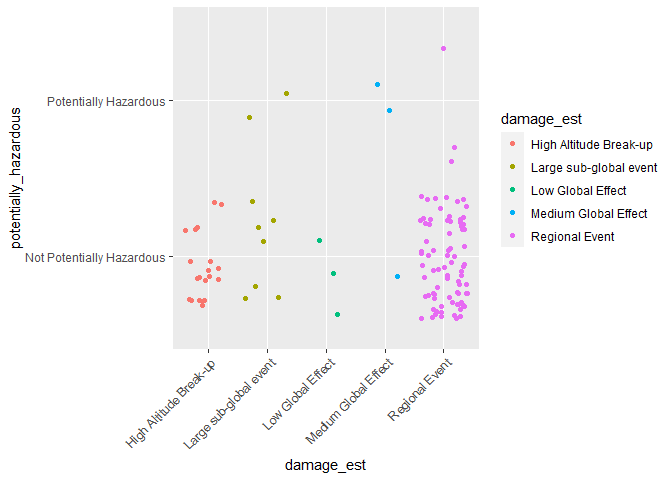
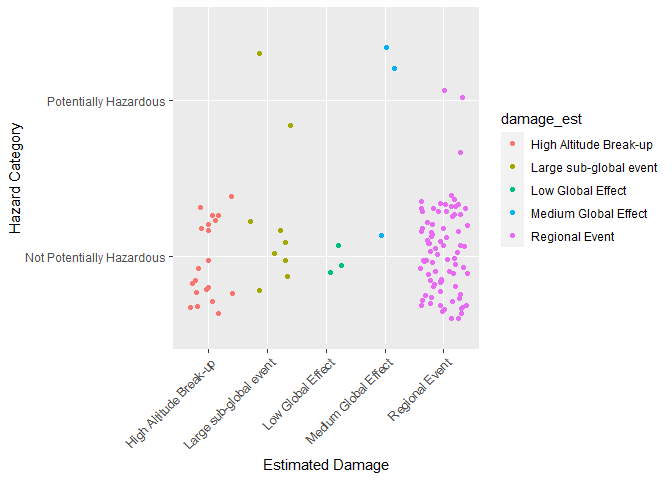
some additional clean up

diff --git a/README.md b/README.md
@@ -185,7 +185,7 @@ the estimations are.
 asteroiddata2 <- as_tibble(asteroiddata2)%>% mutate(diameter_range = asteroiddata2$est_diameter_meter_max - asteroiddata2$est_diameter_meter_min)
 ```
 
-## 3.6 The final tibble!
+## 3.6 The formatted tibble!
 
 And here we are, after all the data wrangling we end up with a useful
 tibble to base our analysis from and work with!
@@ -402,7 +402,7 @@ BPH <- ggplot(data = asteroiddata3, aes(x = potentially_hazardous, y = est_diame
 BPH
 ```
 
-![](README_files/figure-gfm/unnamed-chunk-10-1.png)<!-- -->
+![](README_files/figure-gfm/unnamed-chunk-27-1.png)<!-- -->
 
 ## 8.2 Boxplot size of asteroids grouped by `Damage Potential`
 
@@ -414,9 +414,9 @@ BPH <- ggplot(data = asteroiddata3, aes(x = damage_est, y = est_diameter_meter_m
 BPH
 ```
 
-![](README_files/figure-gfm/unnamed-chunk-11-1.png)<!-- -->
+![](README_files/figure-gfm/unnamed-chunk-28-1.png)<!-- -->
 
-## 8.3 Bar chart showing counts of `Damage Potetial` and `Hazard Category`
+## 8.3 Bar chart showing counts of `Damage Potential` and `Hazard Category`
 
 The bar chart shows the count of asteroids categorized by the `damage`
 they could inflict if they impacted Earth and if they are considered
@@ -427,7 +427,7 @@ BCD <- ggplot(data = asteroiddata3, aes(y = damage_est)) + geom_bar(aes(fill = a
 BCD
 ```
 
-![](README_files/figure-gfm/unnamed-chunk-12-1.png)<!-- -->
+![](README_files/figure-gfm/unnamed-chunk-29-1.png)<!-- -->
 
 ## 8.4 Scatterplot Groups by `Hazard Potential` and `Damage Potential`
 
@@ -435,11 +435,11 @@ The scatter plot shows the clustering of asteroids by whether they are
 `hazardous` and the `damage` they could inflict if they impacted Earth.
 
 ``` r
-ASCT <- ggplot(data = asteroiddata3, aes(y = potentially_hazardous, x = damage_est)) + geom_jitter(aes(color = damage_est)) + guides(x=guide_axis(angle=45))
+ASCT <- ggplot(data = asteroiddata3, aes(y = potentially_hazardous, x = damage_est)) + geom_jitter(aes(color = damage_est)) + guides(x=guide_axis(angle=45)) + labs(y = "Hazard Category", x = "Estimated Damage")
 ASCT
 ```
 
-![](README_files/figure-gfm/unnamed-chunk-13-1.png)<!-- -->
+![](README_files/figure-gfm/unnamed-chunk-30-1.png)<!-- -->
 
 ## 8.5 Correlation of `Asteroid Diameter` and `Magnitude`
 
@@ -458,4 +458,4 @@ CDRE <- ggplot(data = asteroiddata3, aes(y = magnitude, x = est_diameter_meter_m
 CDRE
 ```
 
-![](README_files/figure-gfm/unnamed-chunk-14-1.png)<!-- -->
+![](README_files/figure-gfm/unnamed-chunk-31-1.png)<!-- -->
